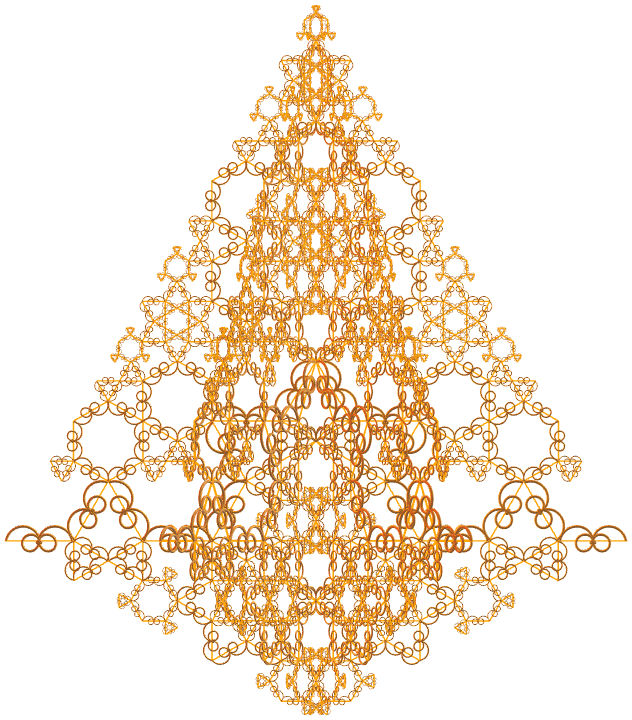
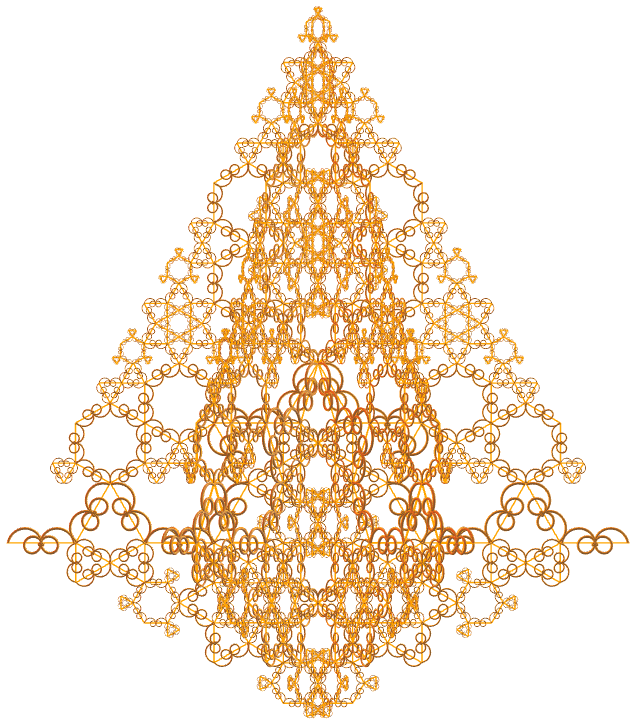
update

Changed region(s): [[0.0, 0.0, 0.9921, 1.0]]

diff --git a/holidaytree/vr/curve110.htm b/holidaytree/vr/curve110.htm
@@ -17,7 +17,7 @@
 			<a-mixin id="p1a" position="-1.06 0.612 0" rotation='0 0 30' mixin="sc1"></a-mixin>
 			<a-mixin id="p2a" position="1.06 0.612 0" rotation="0 0 -30" mixin="sc1"></a-mixin>
 			<a-mixin id="p3a" position="-0.353 1.836 0" rotation='0 0 -60' mixin="sc"></a-mixin>
-			<a-mixin id="p4a" position="0 2.448 0" rotation="0 0 0" mixin="sc"></a-mixin>
+			<a-mixin id="p4a" position="0 2.448 0" rotation="0 0 180" mixin="sc"></a-mixin>
 			<a-mixin id="p5a" position="0.353 1.836 0" rotation="0 0 60" mixin="sc"></a-mixin>
 						
 			<a-mixin id="sc" scale="0.1084 0.1084 0.1084"></a-mixin>
